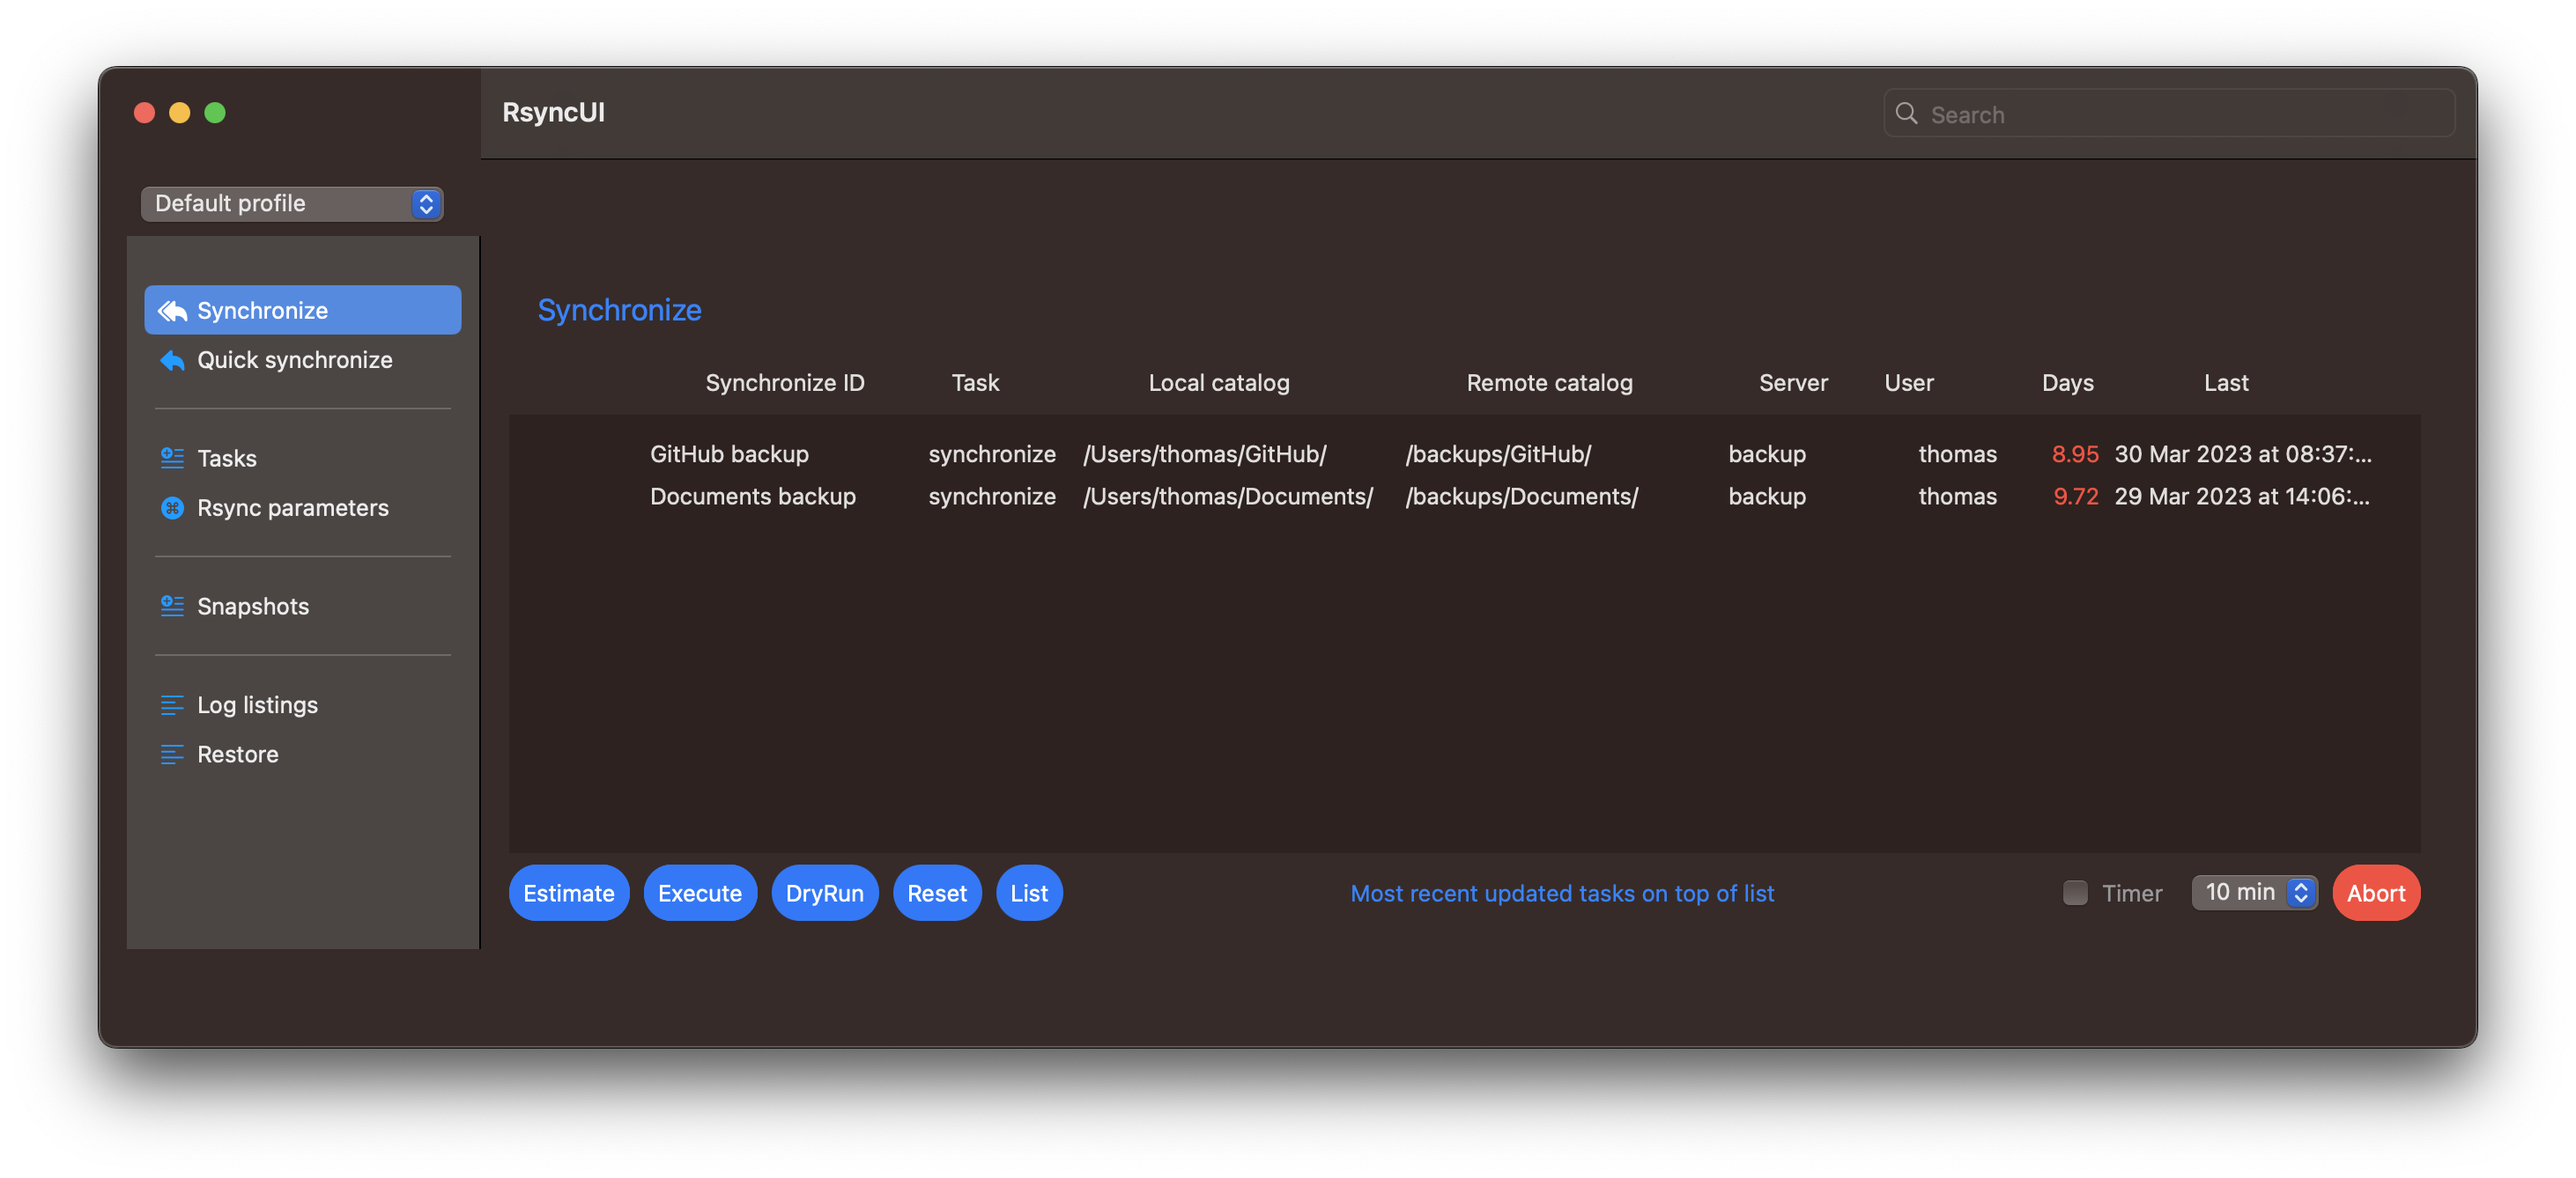
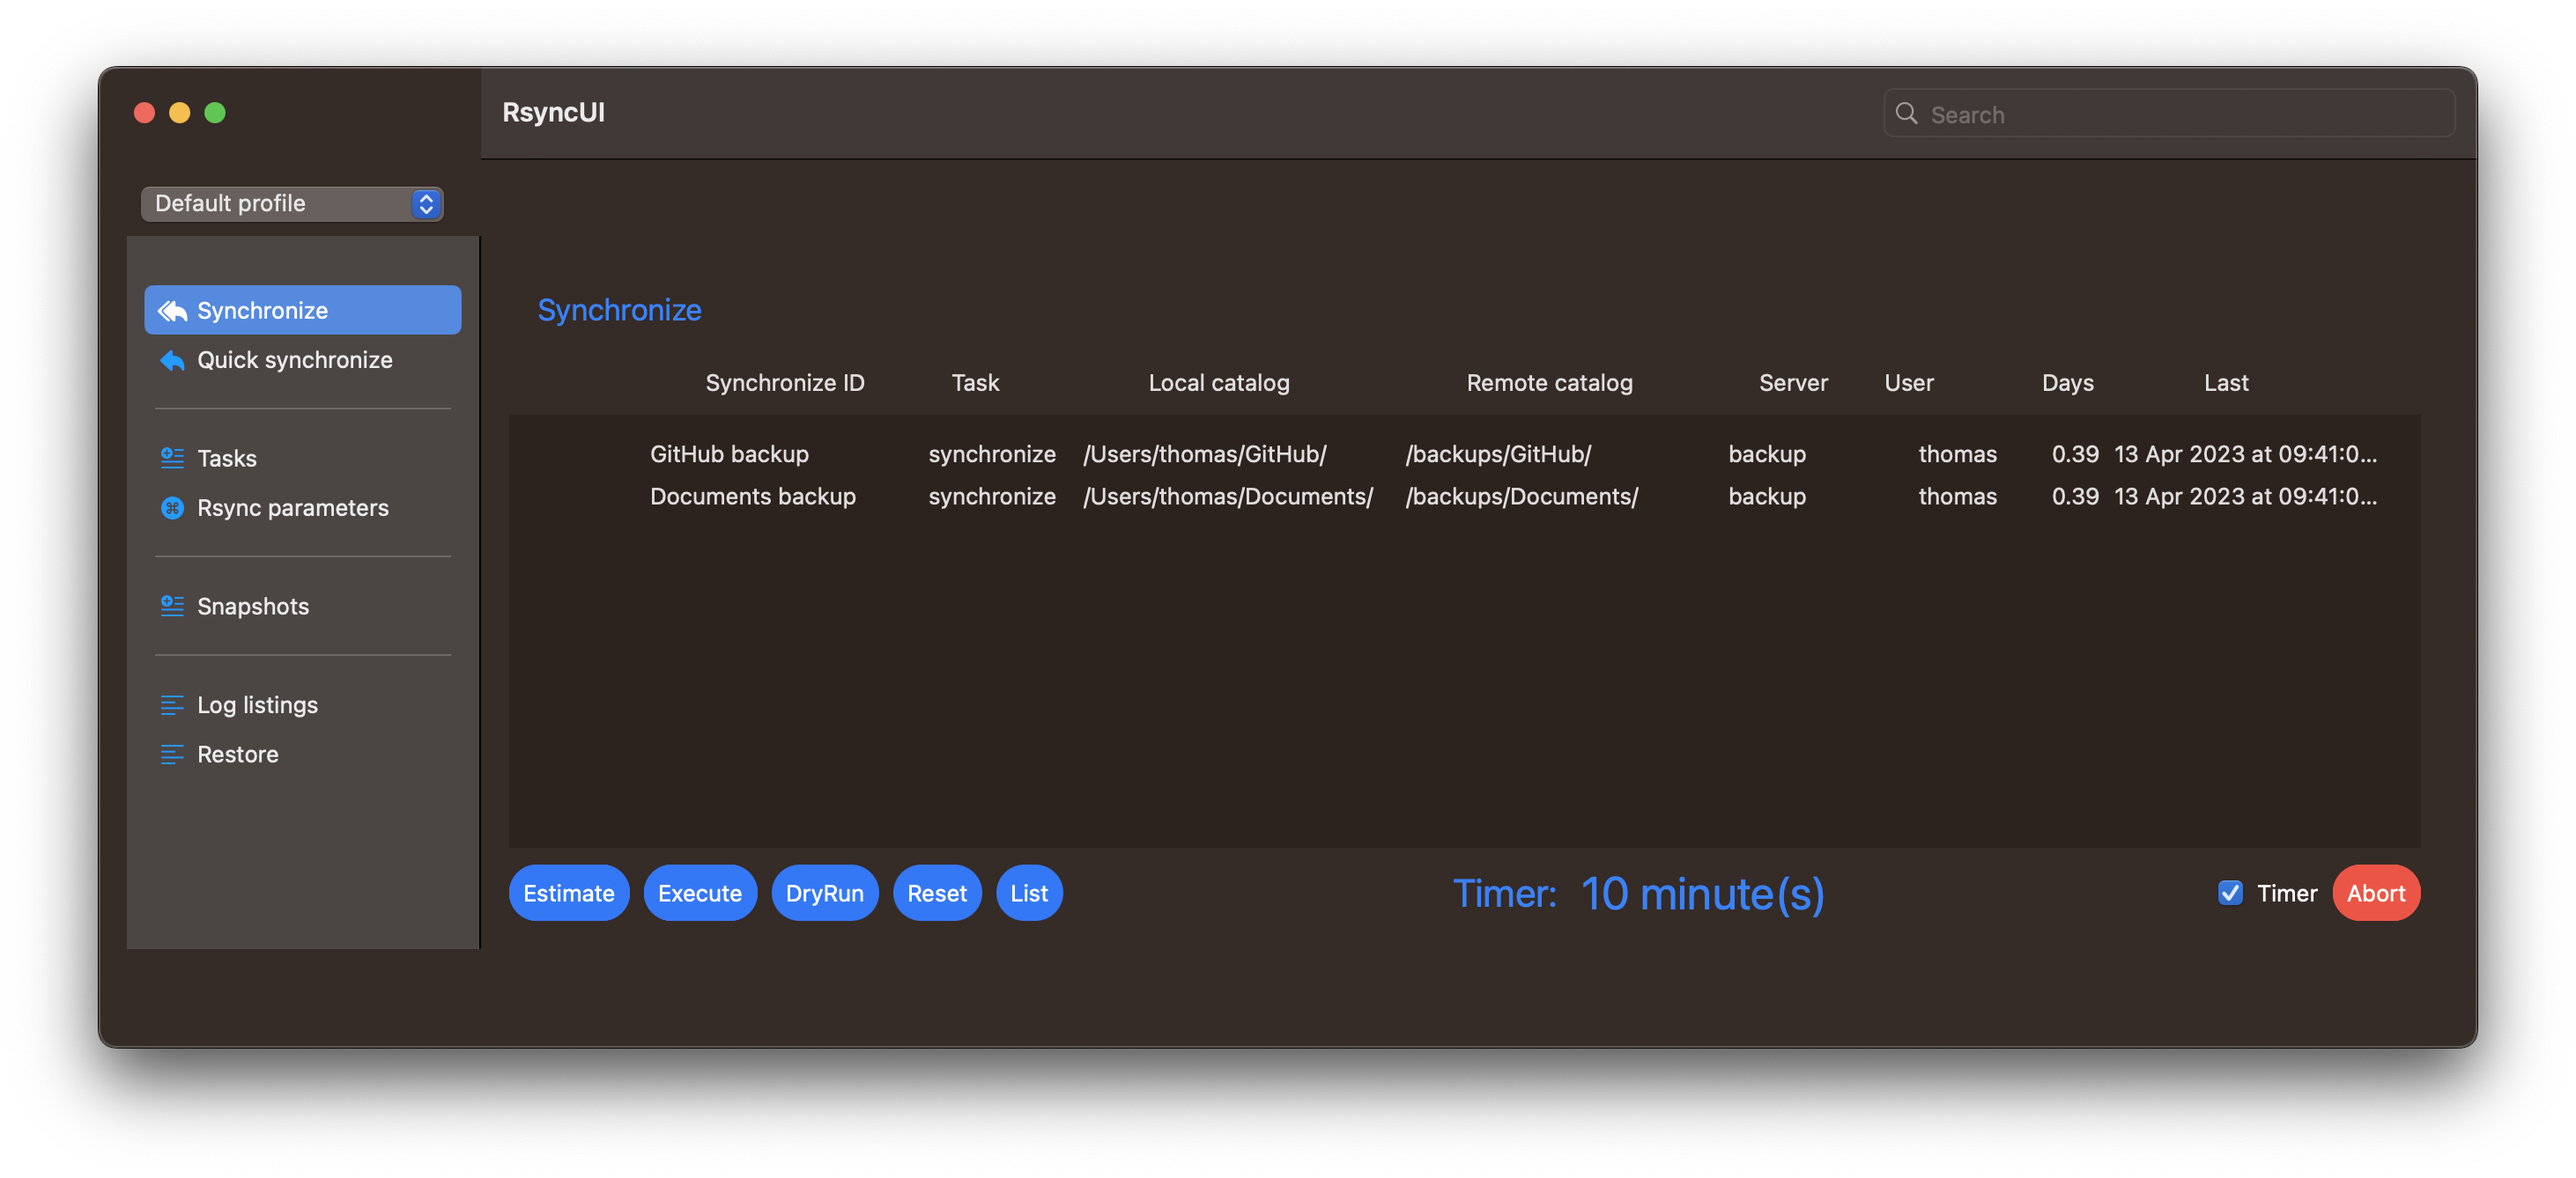
update

Changed region(s): [[0.778, 0.3677, 0.9337, 0.429], [0.5291, 0.7354, 0.7158, 0.7967], [0.778, 0.7354, 0.9025, 0.7967]]

diff --git a/content/post/Changelog.md b/content/post/Changelog.md
@@ -8,11 +8,11 @@ lastmod = "2021-08-21"
 +++
 RsyncUI is [signed and notarized](/post/notarized/) and built as [Universal macOS Binary](https://developer.apple.com/documentation/xcode/building_a_universal_macos_binary). Please see info about [the latest version of rsync in install](/post/rsync/).
 
-## Version 1.4.9 build(71) - 7 April 2023 (release candidate is removed)
+## Version 1.4.9 build(71) - 13 April 2023 
 
-**Update:** Release candidate is removed. I was not quite happy with how the timer worked in the release candidate. It should work when RsyncUI is minimized as well. The updated version is working but need more QA and testing. 
+This version is includes a timer function to enable periodic backups of important data and updates **while you are working**.  The timer is **not** like a schedule function. The timer is working if RsyncUI is minimized and your Mac is not going to sleep. The visual count down of minutes might not be correct if RsyncUI is minimized, but the internal count down is correct. This is due to the *timer library*  requiere the app to be active. The visual timer is reset every time the internal count down kicks of an execution. 
 
-The purpose of the timer in RsyncUI is to enable periodic backups of important data and updates while you are working. 
+RsyncUI writes a record to the log every time it executes a profile by the timer.
   
 {{< image src="/images/temp/timer1.png" alt="" position="center" style="border-radius: 8px;" >}}
 {{< image src="/images/temp/timer2.png" alt="" position="center" style="border-radius: 8px;" >}}
